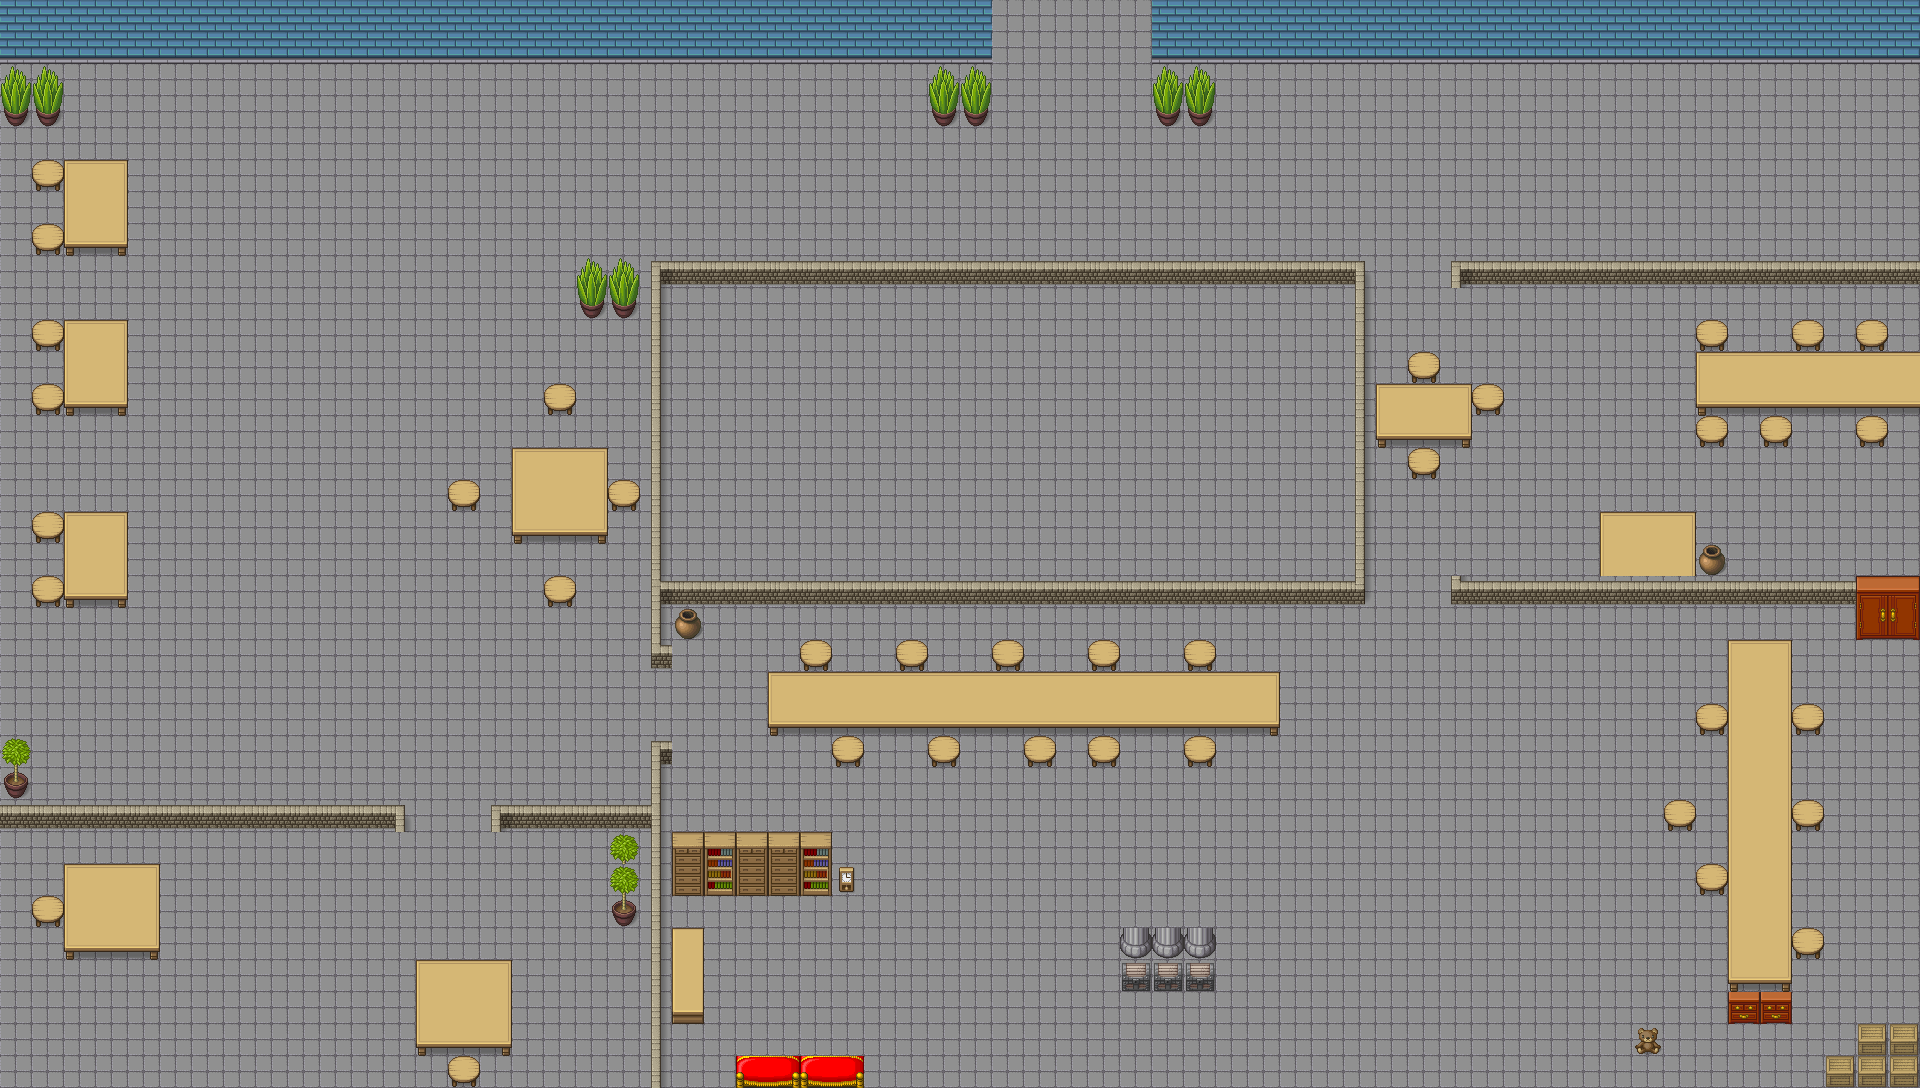
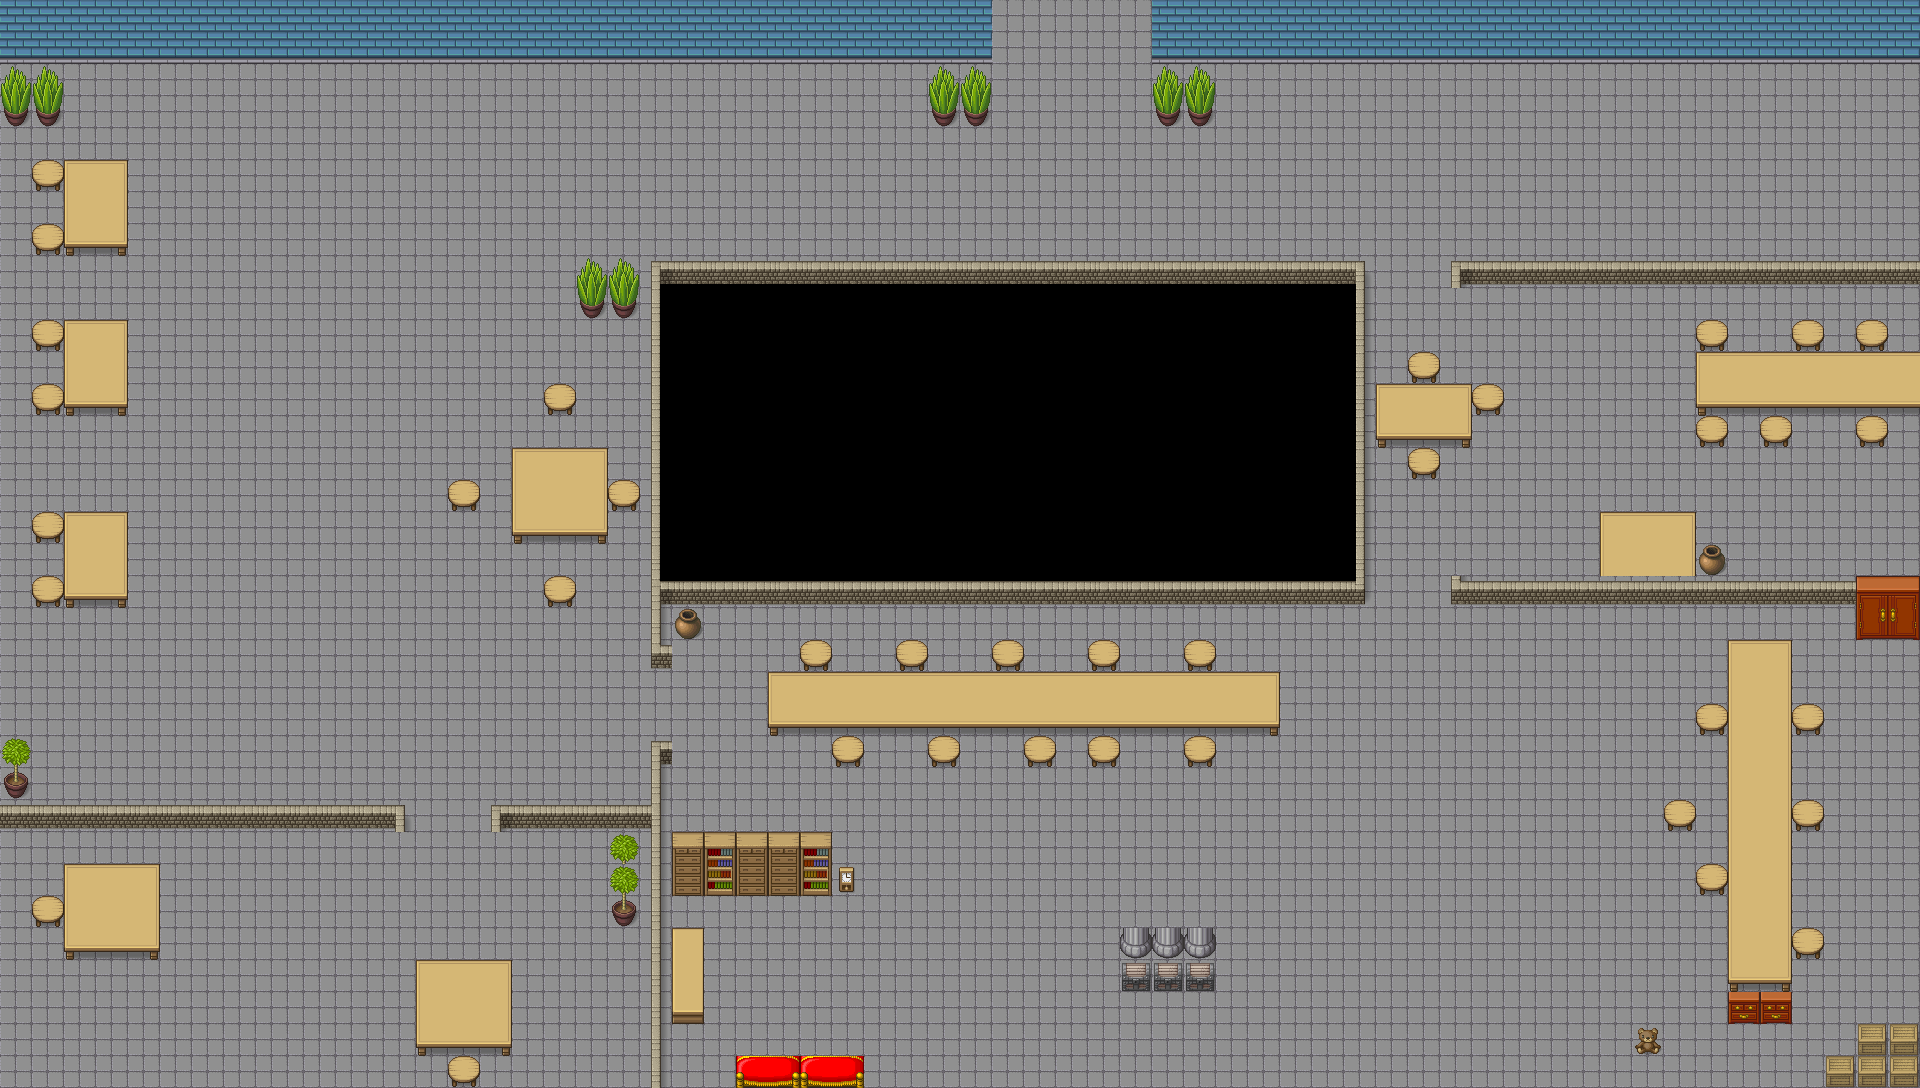
added black to empty spaces and renamed files for coding style

Changed region(s): [[0.3438, 0.25, 0.7188, 0.5312]]

diff --git a/src/player_and_map/smi1_init.c b/src/player_and_map/smi1_init.c
@@ -47,5 +47,5 @@ void init_map(main_t *main_struct)
     main_struct->pm.view = sfView_create();
     sfView_setSize(main_struct->pm.view, (sfVector2f){960, 540});
     main_struct->pm.map.map_sp = load_sprite("./ressources/maps/sm1.png");
-    main_struct->pm.map_3D.map_sp = load_sprite("./ressources/maps/sm1_3D.png");
+    main_struct->pm.map_3D.map_sp = load_sprite("./ressources/maps/sm1_3d.png");
 }
